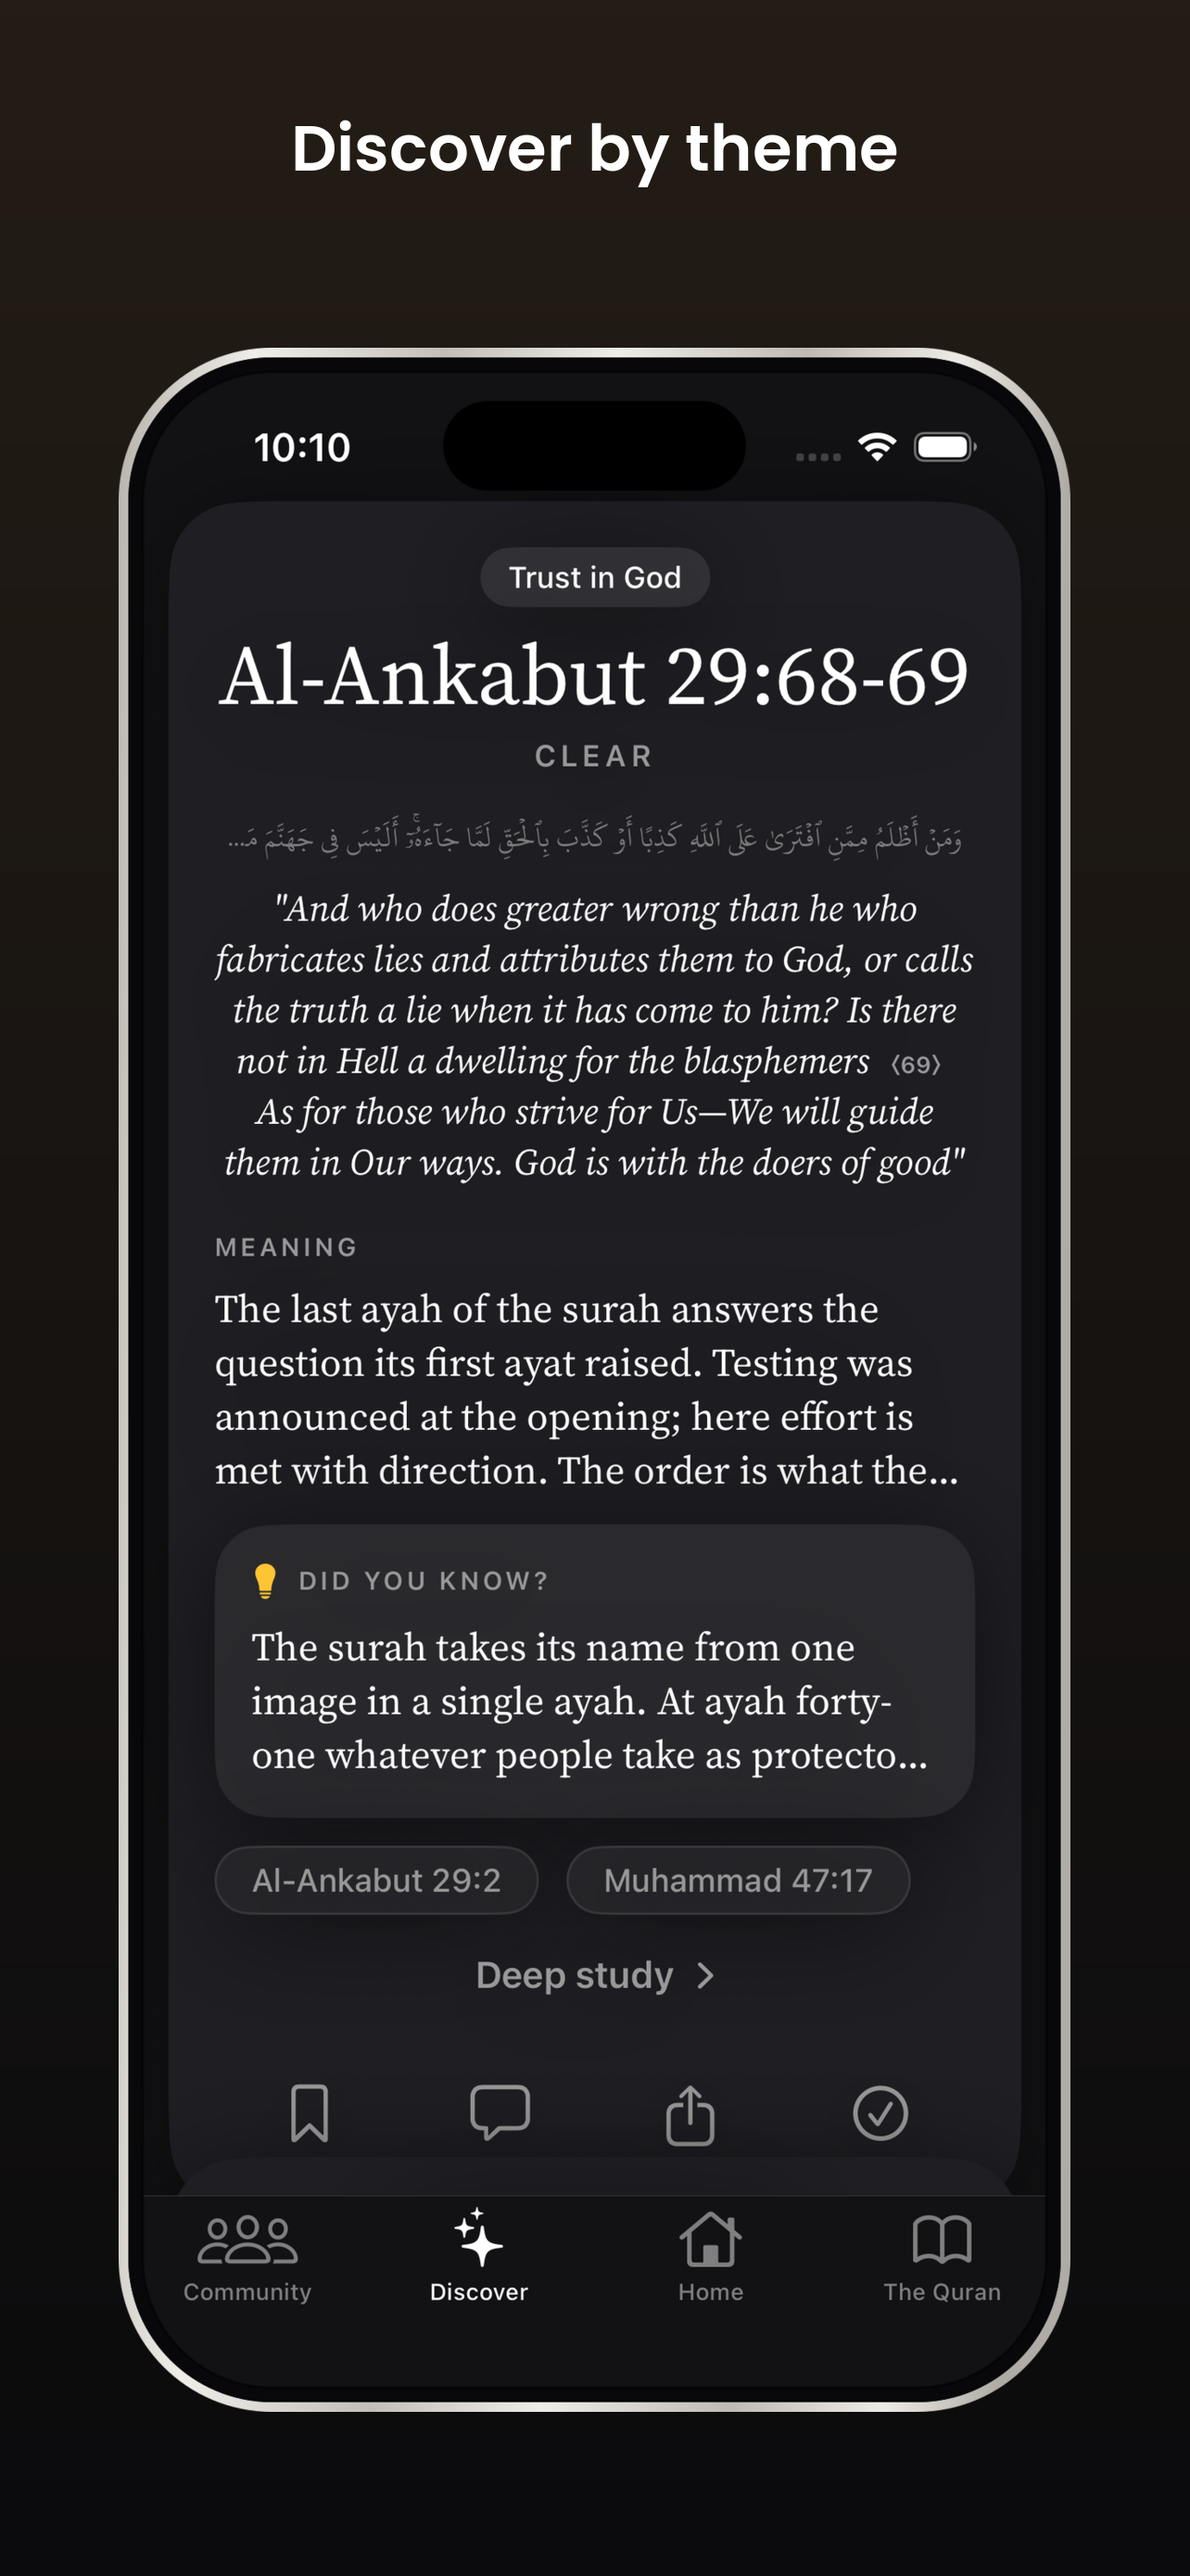
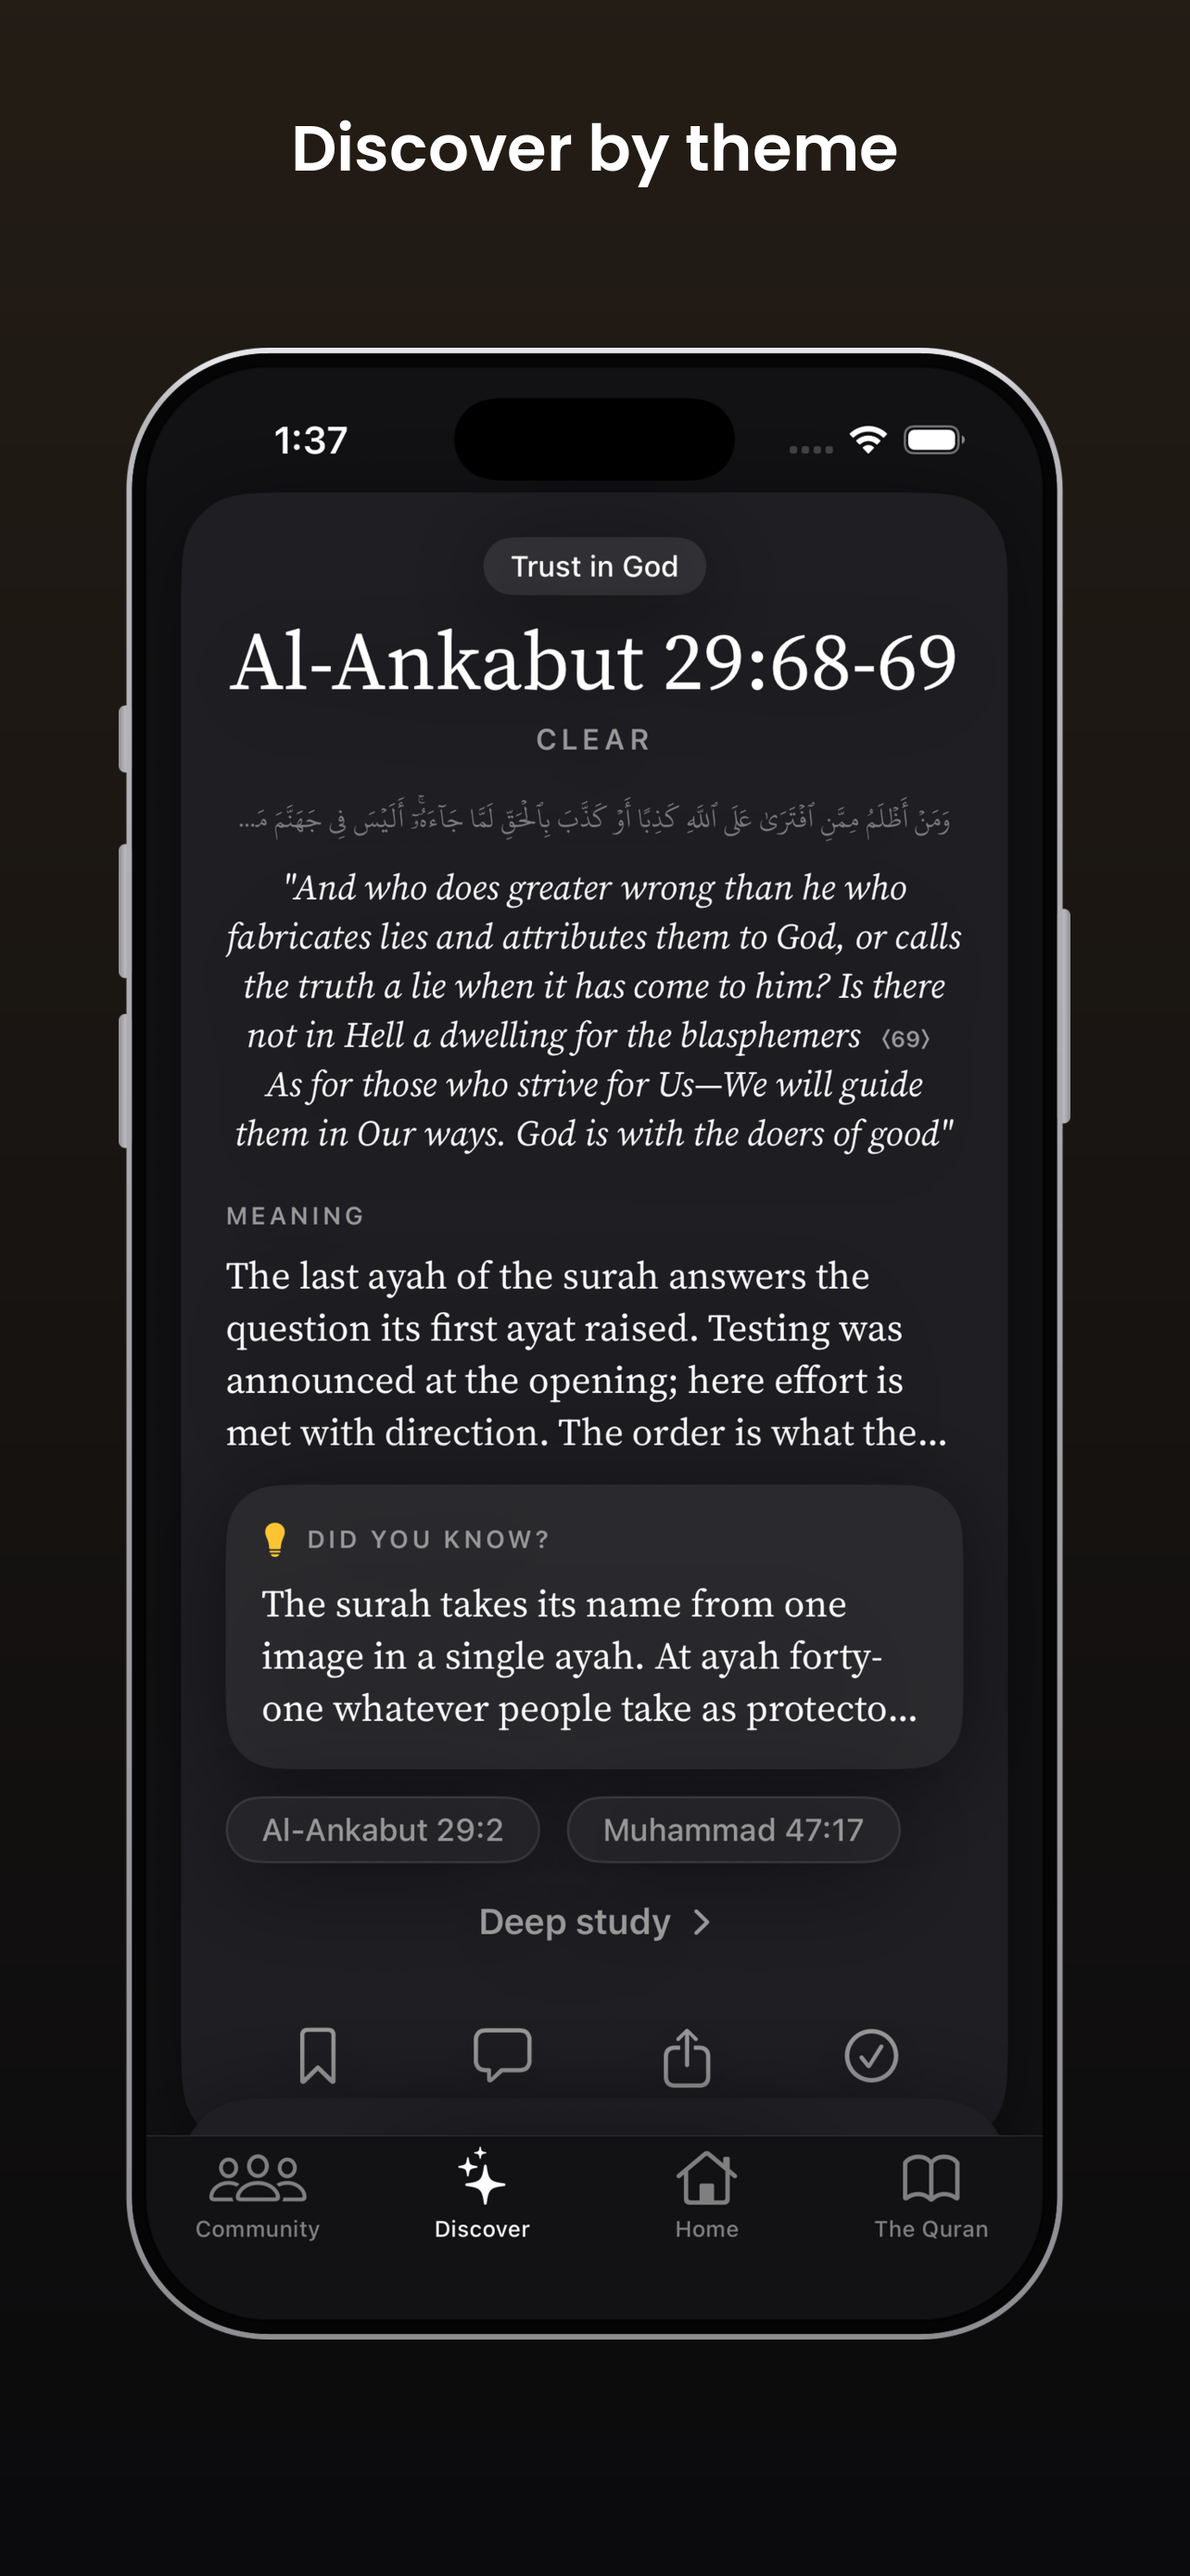
mockups+frame: whole captures, and one marketing frame from the same device
render-mockups.sh now ships the *whole* 402x874 pt capture at 690x1500 px with
the display's 55 pt radius in its alpha, instead of a 1119x2496 window cut out
of a frame of a different aspect: nothing is cropped and the four PNGs drop
from 4.0 MB to 1.4 MB. The plans sheet still trades its dimmed band for its own
ground — iOS dims the parent to black where the reference shows light grey —
trimming and padding by the same 236 px, so every row stays where it was.

Artwork/tools/frame.py is rewritten from DeviceFrameMetrics' numbers: the same
402x874 glass, 55 pt radius, 6 pt border, 2.5 pt rail and four buttons 3.5 pt
proud, and no Dynamic Island. It prints the window and enclosure constants it
implies; Tools/release/screenshots.sh carries them (WIN 33,69 1113x2419 r152;
FRAME y45 h2466) and crops the canvas to the enclosure before laying it out.
Both App Store sets regenerated with the new frame.

diff --git a/Artwork/tools/frame.py b/Artwork/tools/frame.py
@@ -1,65 +1,115 @@
 #!/usr/bin/env python3
-"""iPhone frame overlay: 1179x2556 transparent PNG, titanium rail + black
-bezel + Dynamic Island.  The centre aperture is transparent so a screenshot
-placed *behind* it shows through."""
+"""iPhone frame overlay: a 1179x2556 transparent PNG whose centre aperture is the
+device's own screen, so a 402x874 pt capture placed *behind* it shows through
+edge to edge with nothing cropped.
+
+The numbers are the device's, in device points, and are the same ones
+`FeatureOnboarding/Components/PhoneFrame.swift`'s `DeviceFrameMetrics` draws the
+slides' frame from — screen 402 x 874 with a 55 pt corner radius, a 6 pt black
+border, a 2.5 pt titanium rail, side buttons 3.5 pt proud of it. Everything below
+is those numbers times one scale factor, chosen so the enclosure *plus* the proud
+side buttons fills the canvas's width.
+
+Printed alongside the SVG on stderr: the aperture rectangle
+`Tools/release/screenshots.sh` has to composite into (WIN_X/Y/W/H/R) and the
+enclosure's own box (FRAME_Y/H), so the two can never drift apart.
+"""
+import sys
+
+# --- canvas ---------------------------------------------------------------
 W, H = 1179, 2556
-RAIL, BEZEL = 12, 18            # rail band, then black bezel
-INSET = RAIL + BEZEL            # 30 -> aperture 1119 x 2496
-R_OUT = 190
-R_IN1 = R_OUT - RAIL
-R_APT = R_OUT - INSET
-DI_W, DI_H, DI_Y = 375, 111, INSET + 36
+
+# --- the device, in device points (mirrors DeviceFrameMetrics) ------------
+SCREEN_W, SCREEN_H = 402.0, 874.0
+SCREEN_R = 55.0
+BORDER = 6.0          # black, between the glass and the rail
+RIM = 2.5             # titanium rail
+INSET = BORDER + RIM  # 8.5
+OUTER_W, OUTER_H = SCREEN_W + 2 * INSET, SCREEN_H + 2 * INSET   # 419 x 891
+OUTER_R = SCREEN_R + INSET                                       # 63.5
+PROUD = 3.5           # how far a side button stands out of the rail
+
+# (top, height, on_left) from the enclosure's top edge — action, volume up,
+# volume down, power.
+BUTTONS = ((160.0, 30.0, True), (222.0, 60.0, True),
+           (298.0, 60.0, True), (251.0, 96.0, False))
+
+# --- one scale factor -----------------------------------------------------
+# The widest thing on the frame is the enclosure plus a button nub on each edge.
+U = W / (OUTER_W + 2 * PROUD)
+FW, FH = OUTER_W * U, OUTER_H * U          # enclosure box in canvas pixels
+FX, FY = PROUD * U, (H - FH) / 2
+IN = INSET * U
+APT_X, APT_Y = FX + IN, FY + IN
+APT_W, APT_H = SCREEN_W * U, SCREEN_H * U
+APT_R, RIM_PX, R_OUT = SCREEN_R * U, RIM * U, OUTER_R * U
+R_IN1 = R_OUT - RIM_PX
+
+
+def n(v):
+    """Trim the float noise that would otherwise fill the file."""
+    return f"{v:.2f}".rstrip("0").rstrip(".")
+
 
 def rr(x, y, w, h, r, sweep=1):
     """Rounded-rect sub-path; sweep=0 reverses winding for even-odd holes."""
+    x, y, w, h, r = map(float, (x, y, w, h, r))
+    a = [n(v) for v in (x + r, y, x + w - r, r, r, x + w, y + r, y + h - r, r, r,
+                        x + w - r, y + h, x + r, r, r, x, y + h - r, y + r, r, r, x + r, y)]
     if sweep:
-        return (f"M{x+r} {y} H{x+w-r} A{r} {r} 0 0 1 {x+w} {y+r} V{y+h-r} "
-                f"A{r} {r} 0 0 1 {x+w-r} {y+h} H{x+r} A{r} {r} 0 0 1 {x} {y+h-r} "
-                f"V{y+r} A{r} {r} 0 0 1 {x+r} {y} Z")
-    return (f"M{x+r} {y} A{r} {r} 0 0 0 {x} {y+r} V{y+h-r} A{r} {r} 0 0 0 {x+r} {y+h} "
-            f"H{x+w-r} A{r} {r} 0 0 0 {x+w} {y+h-r} V{y+r} A{r} {r} 0 0 0 {x+w-r} {y} Z")
+        return (f"M{a[0]} {a[1]} H{a[2]} A{a[3]} {a[4]} 0 0 1 {a[5]} {a[6]} V{a[7]} "
+                f"A{a[8]} {a[9]} 0 0 1 {a[10]} {a[11]} H{a[12]} A{a[13]} {a[14]} 0 0 1 "
+                f"{a[15]} {a[16]} V{a[17]} A{a[18]} {a[19]} 0 0 1 {a[20]} {a[21]} Z")
+    return (f"M{a[0]} {a[1]} A{a[18]} {a[19]} 0 0 0 {a[15]} {a[17]} V{a[16]} "
+            f"A{a[13]} {a[14]} 0 0 0 {a[12]} {a[11]} H{a[10]} A{a[8]} {a[9]} 0 0 0 "
+            f"{a[5]} {a[7]} V{a[6]} A{a[3]} {a[4]} 0 0 0 {a[2]} {a[1]} Z")
+
 
 def build():
-    a = INSET
-    p = []
-    p.append(f'<svg xmlns="http://www.w3.org/2000/svg" width="{W}" height="{H}" '
-             f'viewBox="0 0 {W} {H}" fill="none">')
-    p.append('<defs>')
-    p.append('<linearGradient id="rail" x1="0" y1="0" x2="1" y2="0.08">'
-             '<stop offset="0" stop-color="#B9B6AF"/>'
-             '<stop offset="0.14" stop-color="#F0EEE9"/>'
-             '<stop offset="0.34" stop-color="#C2BFB8"/>'
-             '<stop offset="0.52" stop-color="#EEECE7"/>'
-             '<stop offset="0.72" stop-color="#BEBBB4"/>'
-             '<stop offset="0.88" stop-color="#EDEBE5"/>'
-             '<stop offset="1" stop-color="#AFACA5"/></linearGradient>')
+    p = [f'<svg xmlns="http://www.w3.org/2000/svg" width="{W}" height="{H}" '
+         f'viewBox="0 0 {W} {H}" fill="none">', '<defs>']
+    # The rail is #B9B9BE -> #8E8E93 down the device, with a lighter catch-light
+    # along the top face — the same two greys DeviceFramePalette uses.
+    p.append('<linearGradient id="rail" x1="0" y1="0" x2="0" y2="1">'
+             '<stop offset="0" stop-color="#E6E6EB"/>'
+             '<stop offset="0.02" stop-color="#B9B9BE"/>'
+             '<stop offset="1" stop-color="#8E8E93"/></linearGradient>')
     p.append('<linearGradient id="btn" x1="0" y1="0" x2="1" y2="0">'
-             '<stop offset="0" stop-color="#6E6C68"/>'
-             '<stop offset="0.5" stop-color="#C6C4BF"/>'
-             '<stop offset="1" stop-color="#7A7873"/></linearGradient>')
-    p.append(f'<clipPath id="apt"><path d="{rr(a,a,W-2*a,H-2*a,R_APT)}"/></clipPath>')
+             '<stop offset="0" stop-color="#8E8E93"/>'
+             '<stop offset="0.5" stop-color="#B9B9BE"/>'
+             '<stop offset="1" stop-color="#8E8E93"/></linearGradient>')
     p.append('</defs>')
-    # side buttons, drawn under the rail so they read as part of the edge
-    for x, y, h in ((0, 640, 96), (0, 812, 150), (0, 1000, 150), (W-9, 858, 250)):
-        p.append(f'<rect x="{x}" y="{y}" width="9" height="{h}" rx="4.5" fill="url(#btn)"/>')
-    # titanium rail: outer rounded rect with the inner one knocked out
-    p.append(f'<path fill-rule="evenodd" fill="url(#rail)" d="{rr(0,0,W,H,R_OUT)} '
-             f'{rr(RAIL,RAIL,W-2*RAIL,H-2*RAIL,R_IN1,0)}"/>')
-    # black bezel between rail and aperture
-    p.append(f'<path fill-rule="evenodd" fill="#08080A" '
-             f'd="{rr(RAIL,RAIL,W-2*RAIL,H-2*RAIL,R_IN1)} '
-             f'{rr(a,a,W-2*a,H-2*a,R_APT,0)}"/>')
-    # hairline where the bezel meets the glass
-    p.append(f'<path d="{rr(a,a,W-2*a,H-2*a,R_APT)}" fill="none" stroke="#000000" '
-             f'stroke-opacity="0.55" stroke-width="3"/>')
-    # Dynamic Island
-    p.append(f'<rect x="{(W-DI_W)/2}" y="{DI_Y}" width="{DI_W}" height="{DI_H}" '
-             f'rx="{DI_H/2}" fill="#000000"/>')
+    # Side buttons, under the rail so they read as part of the edge.
+    bw = (RIM_PX + PROUD * U)
+    for top, height, on_left in BUTTONS:
+        x = FX - PROUD * U if on_left else FX + FW - RIM_PX
+        p.append(f'<rect x="{n(x)}" y="{n(FY + top * U)}" width="{n(bw)}" '
+                 f'height="{n(height * U)}" rx="{n(bw / 2)}" fill="url(#btn)"/>')
+    # Titanium rail: the enclosure with the bezel's rectangle knocked out.
+    p.append(f'<path fill-rule="evenodd" fill="url(#rail)" d="{rr(FX, FY, FW, FH, R_OUT)} '
+             f'{rr(FX + RIM_PX, FY + RIM_PX, FW - 2 * RIM_PX, FH - 2 * RIM_PX, R_IN1, 0)}"/>')
+    # Black border between the rail and the glass.
+    p.append(f'<path fill-rule="evenodd" fill="#050506" '
+             f'd="{rr(FX + RIM_PX, FY + RIM_PX, FW - 2 * RIM_PX, FH - 2 * RIM_PX, R_IN1)} '
+             f'{rr(APT_X, APT_Y, APT_W, APT_H, APT_R, 0)}"/>')
+    # Hairline where the border meets the glass.
+    p.append(f'<path d="{rr(APT_X, APT_Y, APT_W, APT_H, APT_R)}" fill="none" '
+             f'stroke="#000000" stroke-opacity="0.55" stroke-width="3"/>')
+    # No Dynamic Island: the capture behind the aperture carries the real one.
     p.append('</svg>')
     return "\n".join(p)
 
+
+def window():
+    """The constants Tools/release/screenshots.sh needs, as integers."""
+    return dict(WIN_X=round(APT_X), WIN_Y=round(APT_Y), WIN_W=round(APT_W),
+                WIN_H=round(APT_H), WIN_R=round(APT_R),
+                FRAME_Y=round(FY), FRAME_H=round(FH))
+
+
 if __name__ == "__main__":
-    import pathlib, sys
+    import pathlib
     out = pathlib.Path(sys.argv[1]) if len(sys.argv) > 1 else None
     s = build()
     (out.write_text(s) if out else sys.stdout.write(s))
+    print(" ".join(f"{k}={v}" for k, v in window().items()), file=sys.stderr)

diff --git a/Artwork/README.md b/Artwork/README.md
@@ -175,14 +175,22 @@ app draws when the asset catalog is absent — package previews and host tests.
 | --- | --- | --- | --- |
 | `phone-frame-1179x2556.png` | 1179×2556 | transparent iPhone frame to overlay our own screenshots | `src/phone-frame.svg` |
 
-Structure: a 12 px titanium rail (multi-stop linear gradient), an 18 px black
-bezel, side-button nubs, and a black Dynamic Island pill (375×111 at x 402,
-y 66). Outer corner radius 190; aperture corner radius 160.
+Structure: the iPhone 17 Pro, drawn from the device's own points — a 402 × 874 pt
+screen with a 55 pt corner radius, a 6 pt black border, a 2.5 pt titanium rail
+(`#B9B9BE` → `#8E8E93` with a lighter top face), and four side buttons 3.5 pt
+proud of the rail (action / volume up / volume down on the left, power on the
+right). Those are the same numbers `DeviceFrameMetrics` draws the onboarding
+slides' frame from, so the two frames are one device at two scales. `frame.py`
+picks a single scale factor — the enclosure plus a button nub on each edge fills
+the canvas's width — and multiplies everything by it. **It draws no Dynamic
+Island:** the capture behind the aperture carries the real one.
 
-**Screen window: x 30, y 30, 1119 × 2496.** That window is 0.4484 : 1 while a
-real screenshot is 0.4613 : 1, so scale the screenshot to *fill* the window and
-clip it to a `RoundedRectangle(cornerRadius: 160)` — a ~1.5 % vertical crop,
-invisible in practice. Do not stretch it.
+**Screen window: x 33, y 69, 1113 × 2419, corner radius 152**, with the enclosure
+itself at y 45, 1179 × 2466. The window is the device's screen, so a 1206 × 2622
+capture lands in it edge to edge (0.4601 : 1 against the capture's 0.4600 : 1);
+scale to fill and clip to `RoundedRectangle(cornerRadius: 152)`. Do not stretch
+it. `python3 Artwork/tools/frame.py` prints those constants on stderr —
+`Tools/release/screenshots.sh` carries a copy and must be updated with them.
 
 ### Reading-plan covers — `PlanCovers/`
 
